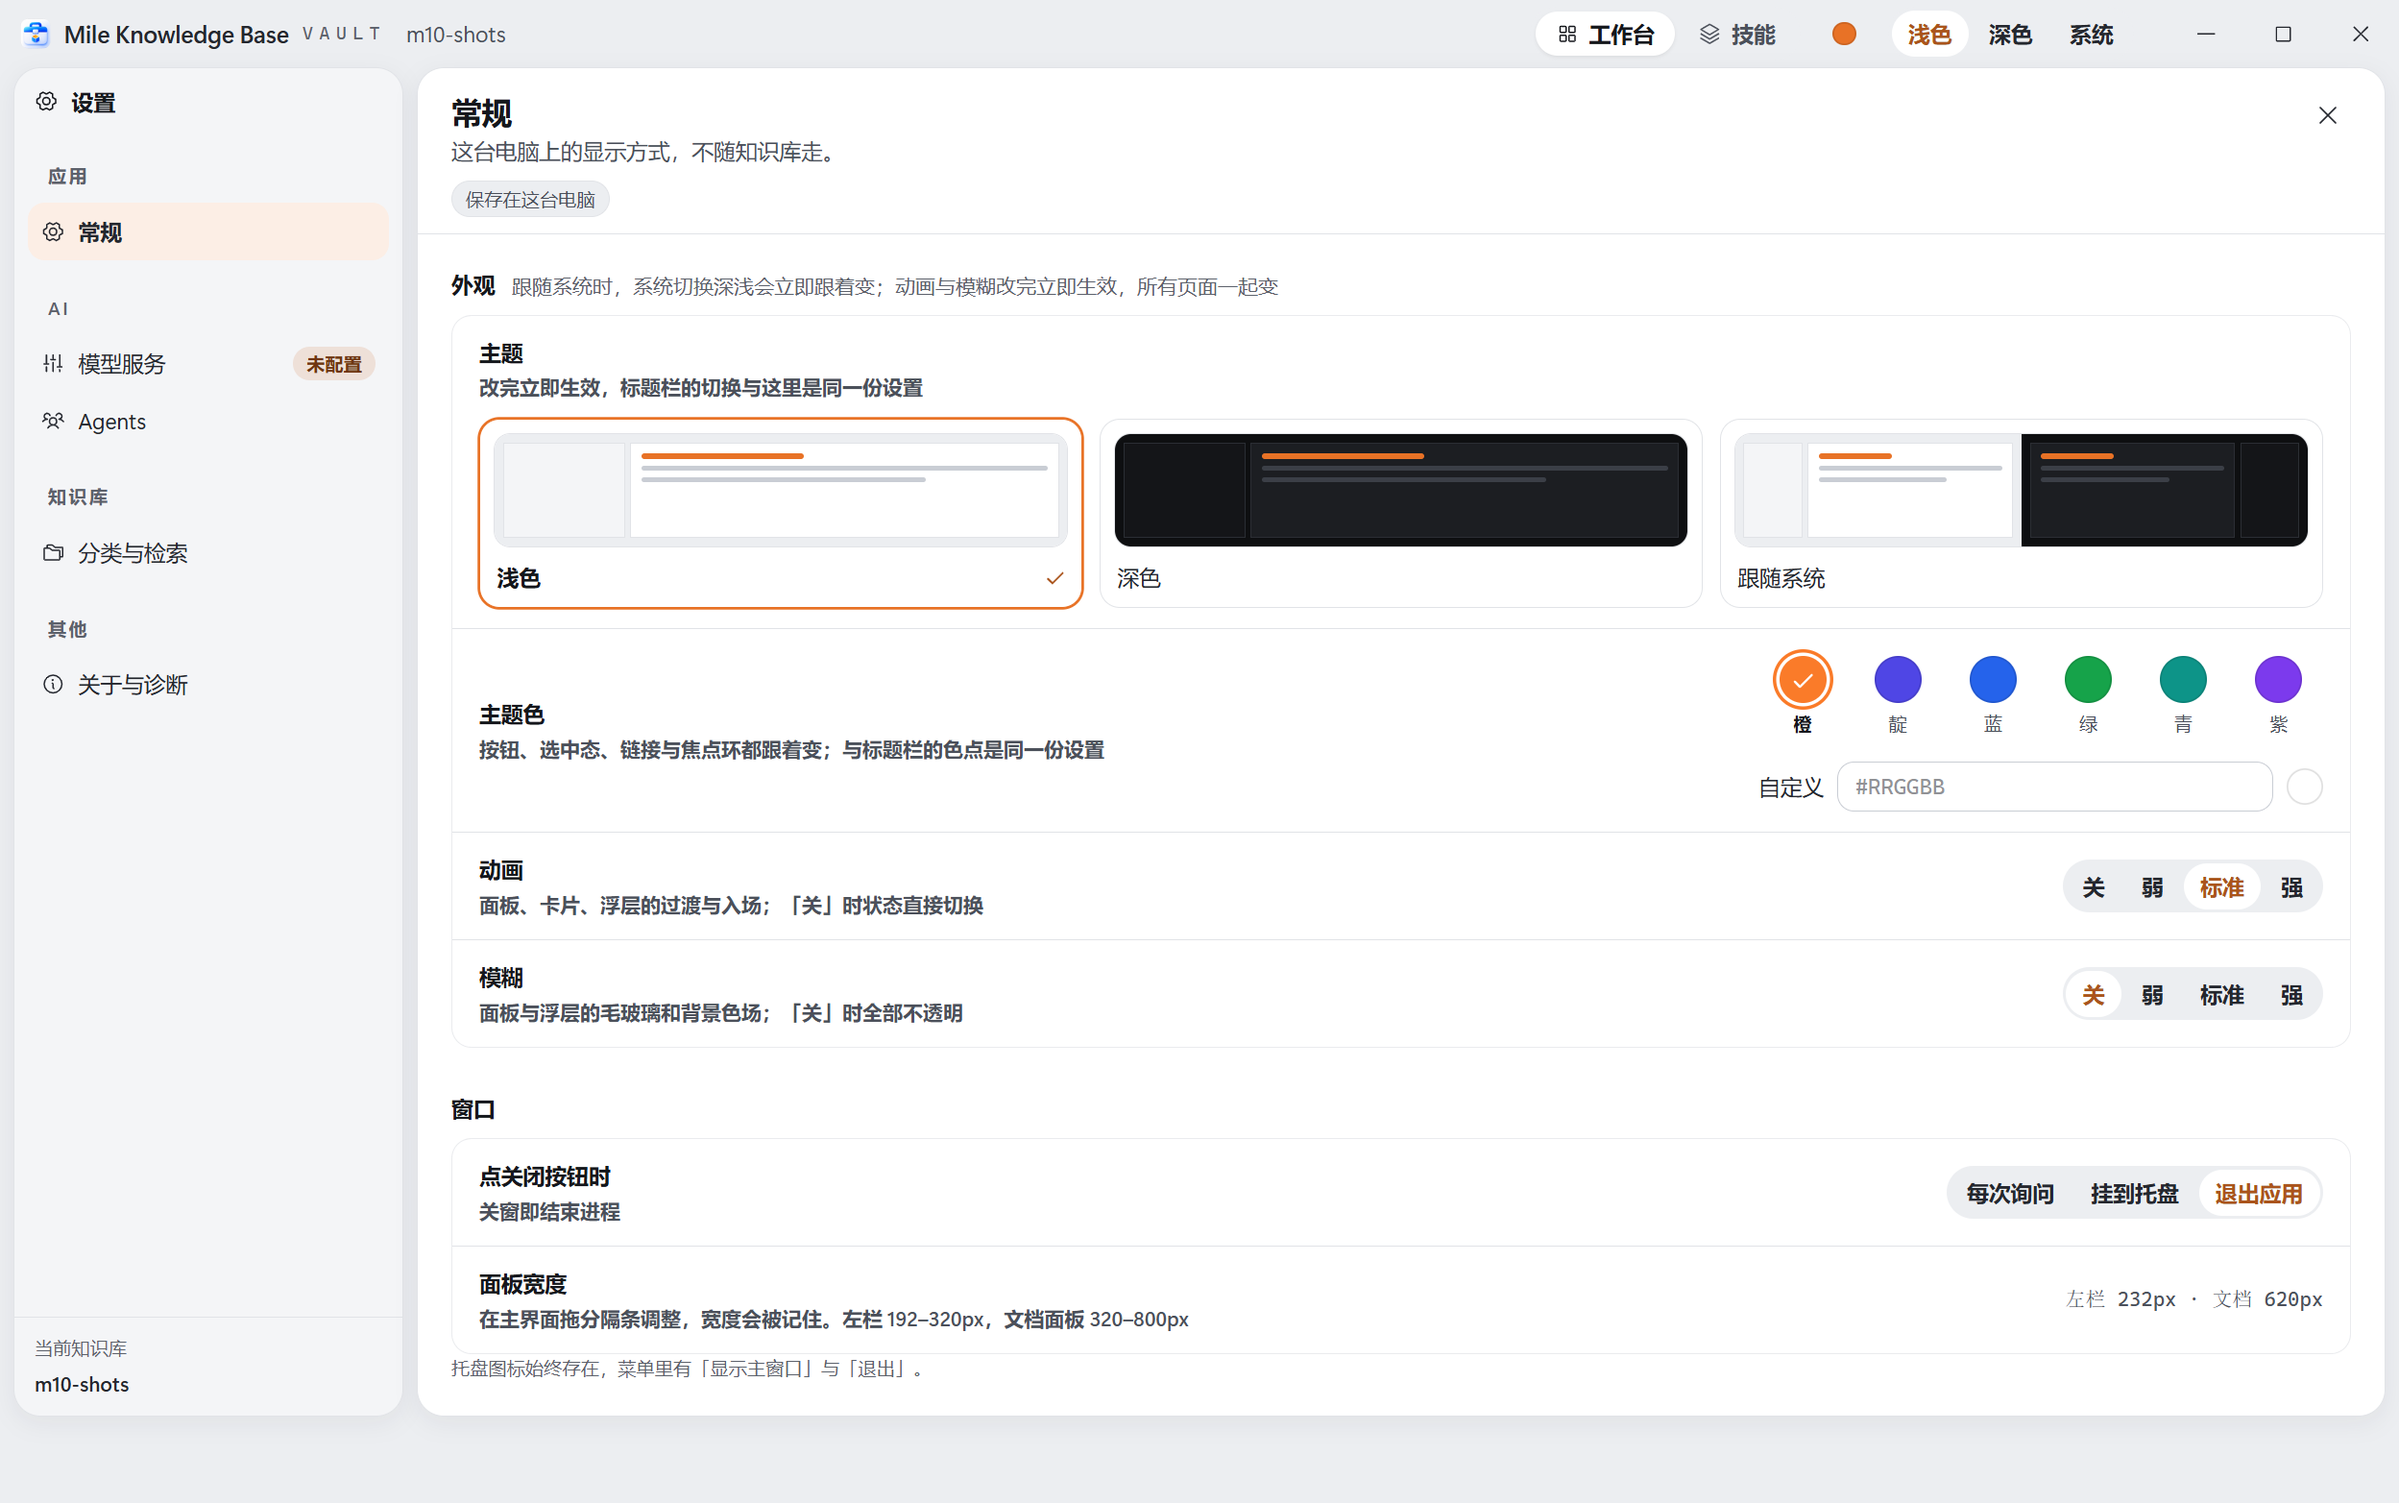
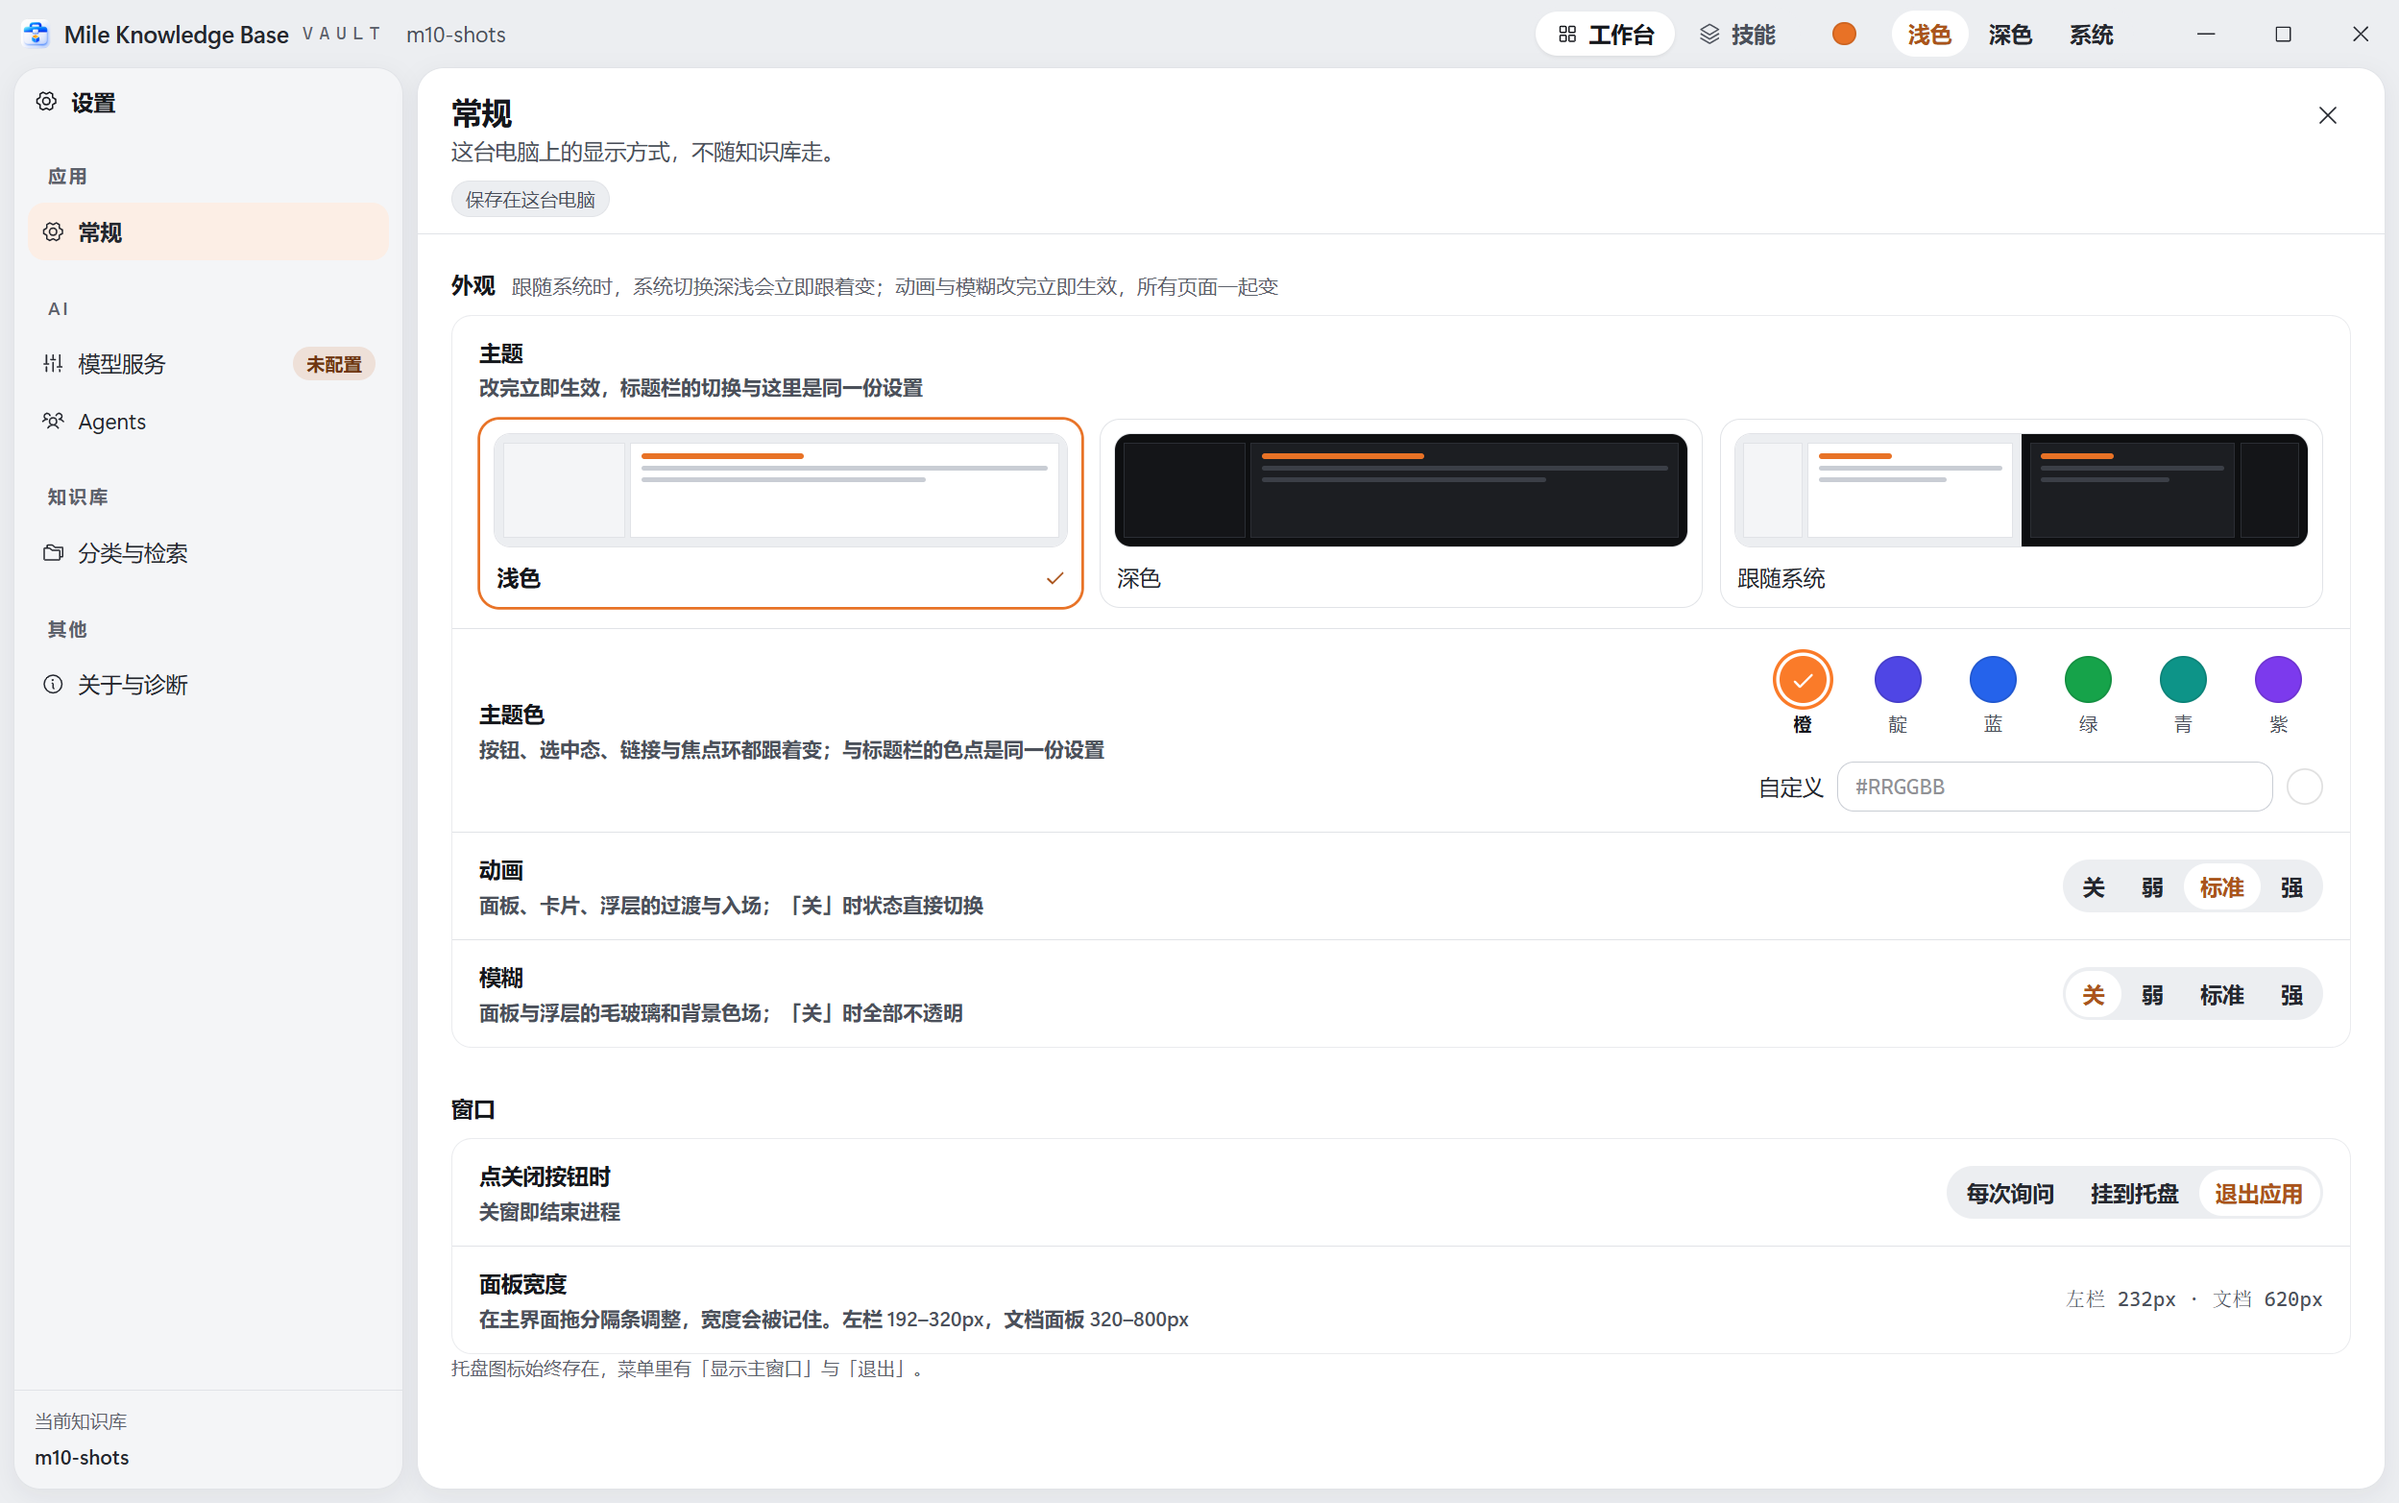
fix(settings): fill the window height on the settings page (M10.1 P01)
.settings-grid gains height: 100% and grid-template-rows: minmax(0, 1fr), so
both panels reach the window bottom minus the panel gap at 1440x900,
1440x1100 and 960x720; long content scrolls inside .settings-body, the nav
panel reaches the grid bottom, and the save bar stays pinned to the host
bottom. ac-m10 gains those assertions plus the resize helper; the settings
screens are re-captured. ac-m10 94/94, ac-m3 47/47, ac-m35 37/37. Pure style
change, TDD exception recorded in the ledger.

Changed region(s): [[0.1873, 0.9201, 0.9992, 0.9508], [0.0, 0.8895, 0.0624, 0.9815]]

diff --git a/src/styles/settings.css b/src/styles/settings.css
@@ -6,8 +6,13 @@
 
 .settings-grid {
   display: grid;
+  /* M10.1 P01: the grid itself fills the shell's row (its own auto height used
+     to stop at the content), and the single row takes the remaining space, so
+     both panels reach the bottom edge of the window minus the panel gap. */
+  grid-template-rows: minmax(0, 1fr);
   grid-template-columns: 232px minmax(0, 1fr);
   gap: var(--gap-panel);
+  height: 100%;
   min-height: 0;
   padding: 0 var(--gap-panel) var(--gap-panel);
 }

diff --git a/scripts/visual/capture-m10.py b/scripts/visual/capture-m10.py
@@ -45,6 +45,7 @@ PRESETS = ["orange", "indigo", "blue", "green", "teal", "violet"]
 TIERS = ["off", "low", "std", "high"]
 THEMES = ["light", "dark"]
 STATES = ["work", "work-doc", "menu", "settings", "settings-notes"]
+STATE_FILTER = None
 CONTRAST_TIERS = ["low", "std", "high"]
 LIMIT = 4.5
 
@@ -210,7 +211,8 @@ def take_shots():
     try:
         vid = seed(work / "app", vault)
         driver.start()
-        for state in STATES:
+        states = STATE_FILTER if STATE_FILTER else STATES
+        for state in states:
             driver.eval(state_script(state, vid))
             time.sleep(1.2)
             if state == "menu":
@@ -485,6 +487,9 @@ def main():
     only = None
     if "--only" in sys.argv:
         only = sys.argv[sys.argv.index("--only") + 1]
+    global STATE_FILTER
+    if "--states" in sys.argv:
+        STATE_FILTER = sys.argv[sys.argv.index("--states") + 1].split(",")
     if only in (None, "shots"):
         take_shots()
     if only == "focus":

diff --git a/docs/PLAN-M10.1.md b/docs/PLAN-M10.1.md
@@ -53,7 +53,7 @@ M10 复核（2026-11-28）从代码层面定位到以下 4 处，按估计影响
 | 编号 | 目标 | 修改范围 | 依赖 | 完成条件 | 状态 |
 | --- | --- | --- | --- | --- | --- |
 | P00 | 复现与基线 | `scripts/e2e/ac-m3.sh`（或 `ac-m10.sh`）新增设置页高度断言；`perf-m8.sh` 新增进入帧间隔（B-1） | 审批 | 设置页断言在 1.8.0 上**失败**，且失败原因是面板底边离窗口底边超过 1 个面板间距；`perf-m8` 在 1.8.0 上分别以 40 张、200 张卡片量出进入帧间隔基线（各 3 轮），写进账本 | 已验证 |
-| P01 | 设置页撑满窗口 | `src/styles/settings.css`（`.settings-grid` 补高度与 `grid-template-rows: minmax(0, 1fr)`；两块面板拉到底；超长内容在 `.settings-body` 内滚动） | P00 | P00 的断言通过；1440×900、1440×1100、960×720 三种窗口下两块面板底边都距窗口底边一个面板间距；模型服务等长内容在内容区里滚动，保存条仍贴在内容区底部；ac-m3、ac-m35、ac-m10 通过；按 B-5 重拍截图 | 待做 |
+| P01 | 设置页撑满窗口 | `src/styles/settings.css`（`.settings-grid` 补高度与 `grid-template-rows: minmax(0, 1fr)`；两块面板拉到底；超长内容在 `.settings-body` 内滚动） | P00 | P00 的断言通过；1440×900、1440×1100、960×720 三种窗口下两块面板底边都距窗口底边一个面板间距；模型服务等长内容在内容区里滚动，保存条仍贴在内容区底部；ac-m3、ac-m35、ac-m10 通过；按 B-5 重拍截图 | 已验证（亲测延后） |
 | P02 | 只有首屏卡片播放入场动画（R1，对应修复 A） | `KbSkillsPage.tsx`、`skills-page.css`（同样检查 `ToolSkillsPage`、`TargetsView` 有没有类似写法） | P00 | 前 24 张错开入场，第 25 张起直接显示，不再一起延迟播放；组件测试先红后绿；ac-m8、ac-m9 通过 | 待做 |
 | P03 | 进入时的刷新不打断入场（R2，对应修复 B） | `SkillsPage.tsx`、`skillsStore.ts`、`KbSkillsPage.tsx` | P02 | 扫描结果内容没变时不更新状态；`KbSkillCard` 加 `memo`，扫描结果更新时只重渲染有变化的卡片；挂载时的恢复预览与更新检查推迟到入场动画结束之后（不改请求本身，也不改「进入页面就检查更新」的规则 Q-SKM-2）；store 与组件测试先红后绿 | 待做 |
 | P04 | 指针跟随按帧合并（R4，对应修复 E） | `KbSkillsPage.tsx` | P02 | 同一帧内多次移动只读写一次；悬停光斑观感不变；组件测试 | 待做 |
@@ -92,3 +92,4 @@ M10 复核（2026-11-28）从代码层面定位到以下 4 处，按估计影响
 | 2026-11-28 | 计划 | v0.1 草案。设置页空白的根因已在代码中确认（`.settings-grid` 无高度与行轨道，M3 起就存在）；技能页掉帧的 4 处原因来自 M10 复核的代码分析，尚未实测 | 未提交 | 文档 UTF-8 无 BOM、无乱码 | 待用户审批（含 B-1–B-5） |
 | 2026-11-28 | 审批 | 用户全部按建议 (a) 批准 PLAN-M10.1 v0.1 与 B-1–B-5，并放行 P00；状态行与 docs/PLAN-M0.md 3.9.4、README、CLAUDE.md 第 3 节同步 | 本地（规划文档 + 审批结论一次提交） | 四处状态行 grep 核对一致 | P00 已放行 |
 | 2026-11-28 | P00 | **复现与基线**。① `ac-m10.sh` 新增断言「settings panels reach the window bottom minus one gap」：面板底边 = 窗口内容区底边 − `--gap-panel`（8px），容差 1px，1.8.0 上**失败**且失败原因正确：`{"miss":[43,43],"navBottom":843,"hostBottom":843}`（窗口 894，差 43px ≫ 1px），其余 84 项全过——是正确的 RED。② `perf-m8.sh` 新增进入帧间隔测量（只报告、未入门禁）：`CARD_COUNT` 变量化（默认 200，等待卡片数随之变化），切页后 1.5 s 采样 rAF 间隔，3 轮；R 按 21.6 取 min(空闲, 滚动中位数)。实测：40 张 p95 16.5 ms（worst round）/ 整体 8.5、比值 1.99；**200 张 p95 33.3 ms（worst round，压 33.4 线）/ 整体 16.7、比值 4.01**，enterFrameR 8.3，两次 `perf-gate ok (m8)`（门暂无此键）。两处脚本自错已修并记录：测量块顺序（`p95_of`、`refresh_scroll` 定义在后）、enter R 误用空闲中位数。 | 本地（随 P00 提交） | ac-m10 84/85（仅新断言失败，预期 RED）；`CARD_COUNT=40 perf-m8` 与默认 200 各 exit 0；指标见 metrics 行 P01 已放行（用户 2026-11-28「不需要亲测，直接执行」；P00 亲测记为跳过，B-1 阈值按 ≤2R 且 ≤33.4ms 确认接入）
+| 2026-11-28 | P01 | **设置页撑满窗口**（纯样式，按 TDD 例外用尺寸断言 + 截图验证，账本此行记为例外）。`settings.css` 给 `.settings-grid` 补 `height: 100%` 与 `grid-template-rows: minmax(0, 1fr)`（一行改动）。`ac-m10.sh` 新增/扩展：面板底边断言（1440×900、1440×1100、960×720 三种尺寸）、模型服务分区长内容在其自身滚动区内可到底、导航栏底边同为网格底边、改分类别名后保存条底边 = 内容宿主底边 − 12px（随后丢弃改动并返回常规）。**全流程的脚本自错已修并记录**：`set_value` 缺失、弃用按钮选择器、返回常规一步。按 B-5 用 `capture-m10.py --only shots --states settings,settings-notes` 重拍 24 张（含两条提示的变体），逐张看过：面板撑满窗口，空白在面板内容内而非页面底部。ac-m10 **94/94**、ac-m3 47/47、ac-m35 37/37。 | 本地（随 P01 提交） | `tsc` 净；ac-m10 94/94、ac-m3 47/47、ac-m35 37/37；截图 24 张 | P02 未放行 |
